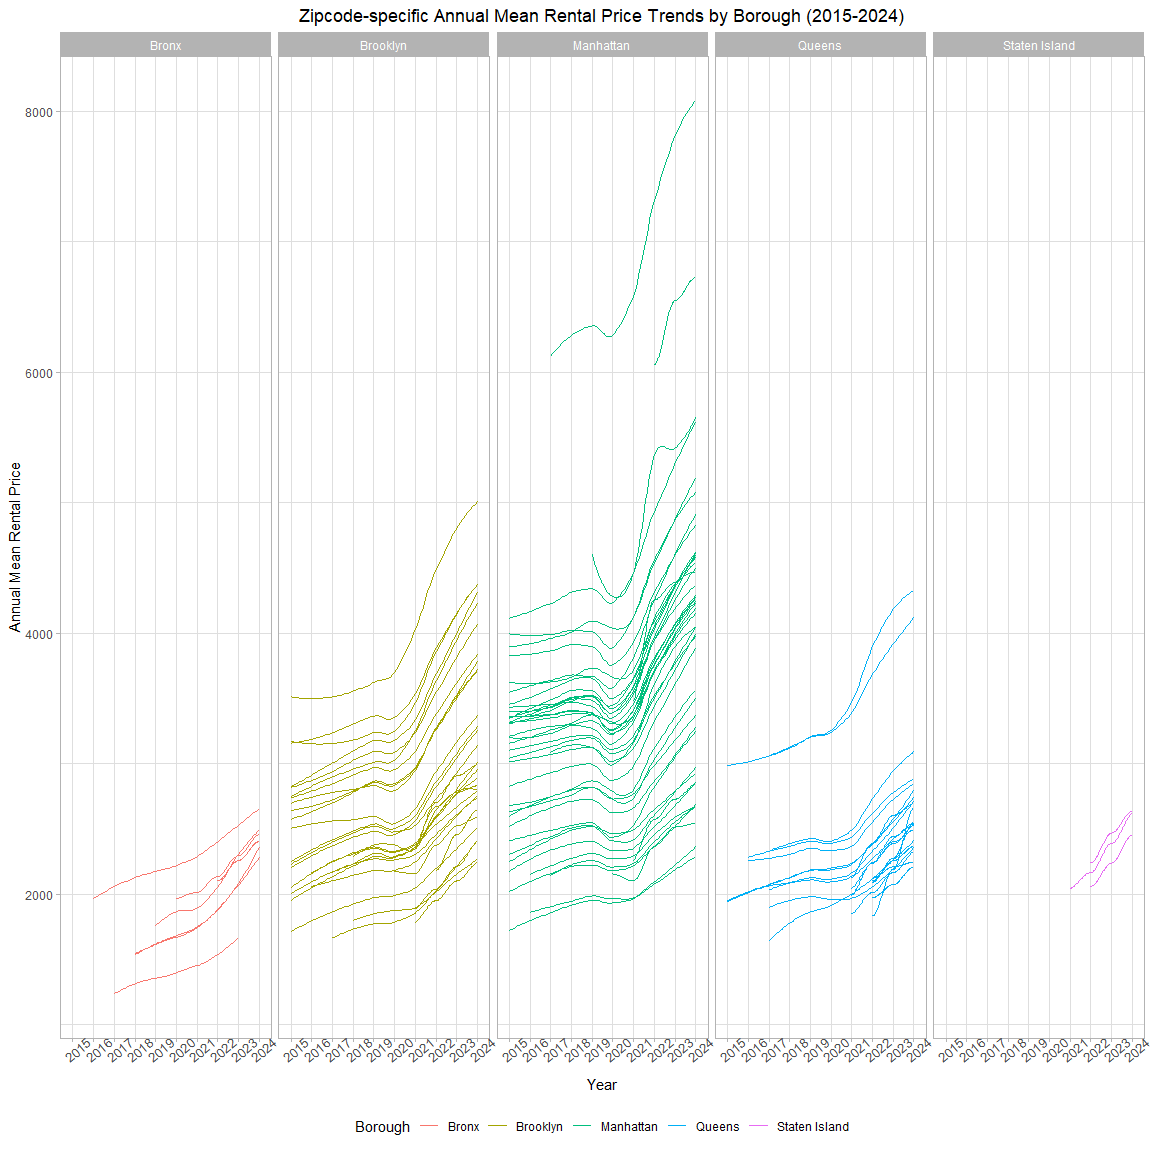
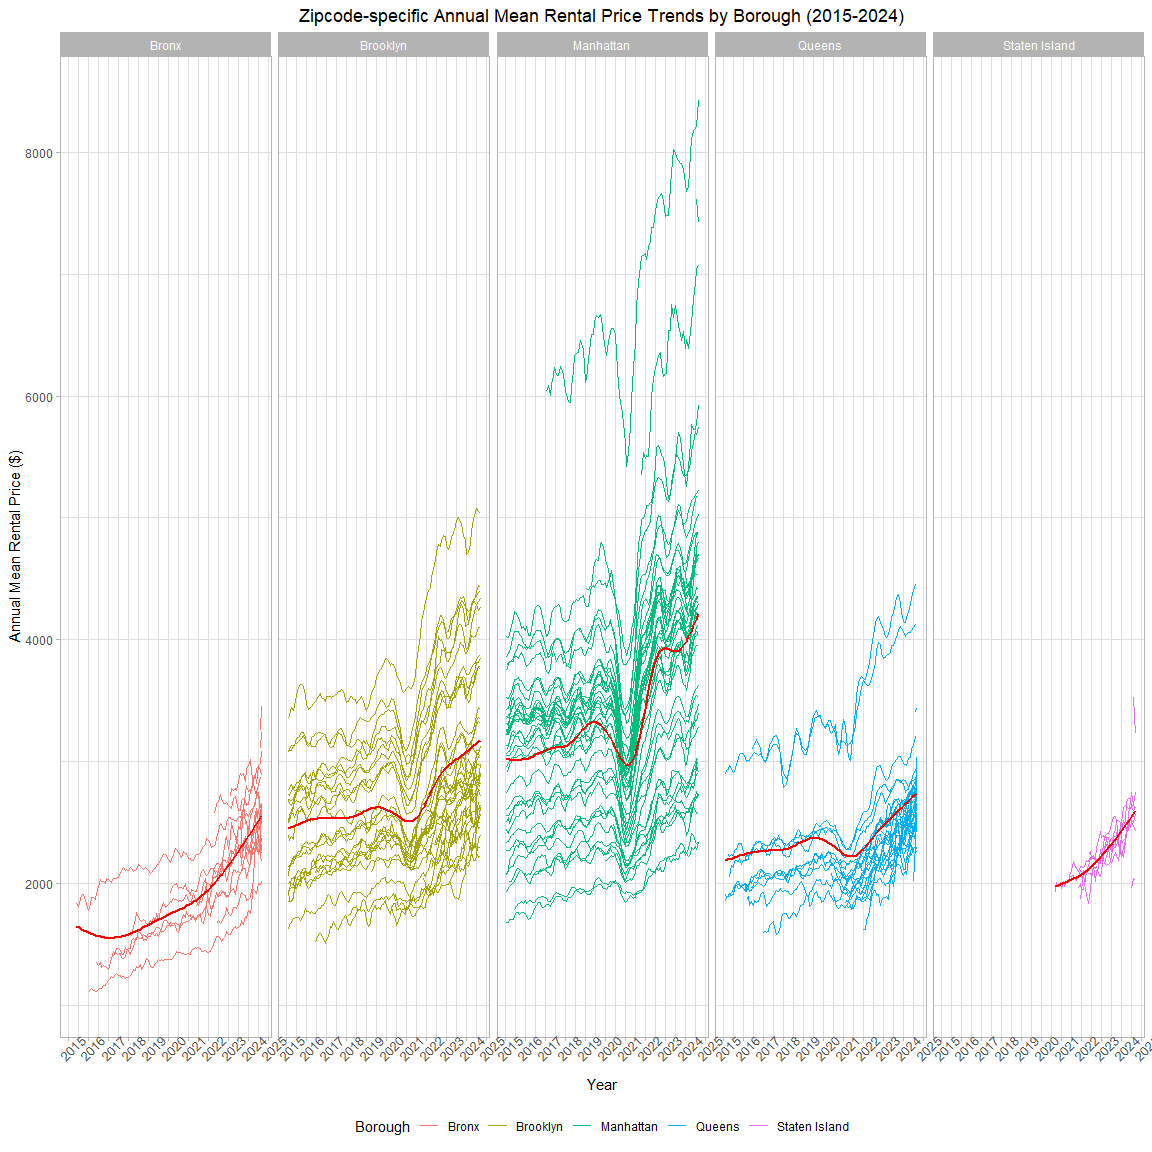
save

Changed region(s): [[0.0, 0.0625, 1.0, 0.9375]]

diff --git a/p8105_mtp_ez2384.md b/p8105_mtp_ez2384.md
@@ -29,9 +29,7 @@ Data Science I, Midterm Project
                      mutate(across(where(is.numeric), round, 2)) %>% 
                      pivot_longer(cols=starts_with("x"), names_to="date", values_to="rental_price") %>% 
                      mutate(date=gsub("x","",date)) %>% 
-                     mutate(date=gsub("_","/",date)) %>%
-                     separate(date, into=c("year", "month", "day"), sep="/") %>%
-                     select(-day)
+                     mutate(date=gsub("_","/",date))
 ```
 
     ## Warning: There was 1 warning in `mutate()`.
@@ -61,8 +59,7 @@ Data Science I, Midterm Project
                      arrange(zipcode) %>%
                      pivot_longer(cols=starts_with("x"), names_to="date", values_to="housing_price") %>% 
                      mutate(date=gsub("x","",date)) %>% 
-                     mutate(date=gsub("_","/",date)) %>% 
-                     separate(date, into=c("year", "month", "day"), sep="/")
+                     mutate(date=gsub("_","/",date))
 
 # Rectify incorrect zipcodes
   NYC_Rental_Price %>% group_by(zipcode) %>% filter(n() > 1) %>% distinct(zipcode)  # zipcodes all unique
@@ -138,8 +135,9 @@ Data Science I, Midterm Project
 ##### Tables
 
 ``` r
-# Table 1 -- average rental price in each borough and year
+# Table 1 --- average rental price in each borough and year
   Table1 = Merged %>% 
+           separate(date, into=c("year","month","day"), sep="/") %>% 
            group_by(borough, year) %>% 
            summarise(mean_rental_price=mean(rental_price, na.rm=TRUE)) %>% 
            pivot_wider(names_from=borough, values_from=mean_rental_price) %>% 
@@ -152,6 +150,7 @@ Data Science I, Midterm Project
 ``` r
 # Table 2 --- comparing average rental prices from 2020 to 2021
   Table2 = Merged %>% 
+           separate(date, into=c("year","month","day"), sep="/") %>% 
            filter( (year=="2020"|year=="2021") & month==c("1") ) %>% 
            group_by(year) %>% 
            select(zipcode, year, rental_price) %>% 
@@ -162,19 +161,21 @@ Data Science I, Midterm Project
            mutate(absolute_change = Jan.2021-Jan.2020, relative_percentage_change = (Jan.2021 - Jan.2020) / Jan.2020 * 100) %>% 
            mutate(across(where(is.numeric),round, 2))
 
-# Table 3 --- for each borough, select neighborhood with largest drop in rental price from 2020 to 2021 
+# Table 3 --- for each borough, select neighborhood with largest drop in rental price from Jan.2020 to Jan.2021 
   Table3 =  Merged %>% 
-            filter(month == "1" & year %in% c("2020", "2021")) %>%
+            separate(date, into=c("year","month","day"), sep="/") %>% 
+            filter((year %in% c("2020", "2021")) & (month=="1")) %>%
             pivot_wider(names_from = year, values_from = rental_price, names_prefix = "Jan.") %>%
             mutate(drop = Jan.2020 - Jan.2021) %>% 
             filter(!is.na(drop)) %>% 
             group_by(borough) %>%
             arrange(borough, desc(drop)) %>%
             slice(1) %>%
-            select(-month, -zipcode, -county)
+            select(borough, neighborhood, drop)
 
 # Table 4 --- average house price within each ZIP code over 2023
   Table4 = US_Housing_Price %>% 
+           separate(date, into=c("year","month","day"), sep="/") %>% 
            group_by(zipcode, year) %>% 
            summarise(mean_housing_price=mean(housing_price)) %>% 
            mutate(year=as.numeric(year), mean_housing_price=round(mean_housing_price,digits=0)) %>% 
@@ -187,41 +188,39 @@ Data Science I, Midterm Project
 ##### Plots
 
 ``` r
-# Plot1 --- NYC Rental Prices within ZIP codes for all available years facilitating comparisons across borough
+# Plot1 --- NYC Rental Prices within each zipcode for all available years facilitating comparisons across borough
   Plot1 = Merged %>% 
+          mutate(date = as.Date(date, format = "%Y/%m/%d")) %>% 
           filter(!is.na(year)) %>% 
-          select(-month) %>% 
-          group_by(year, zipcode, borough) %>% 
-          summarise(mean_rental_price = mean(rental_price, rm.na=TRUE)) %>% 
-          filter(!is.na(mean_rental_price)) %>% 
-          ggplot(aes(x=year, y=mean_rental_price, group=zipcode, color=borough, rm.na=TRUE)) +
-          geom_smooth(se=FALSE, size=0.25) + 
+          separate(date, into=c("year","month","day"), sep="-", remove=FALSE) %>% 
+          filter() %>% 
+          group_by(date, borough, zipcode) %>% 
+          filter(!is.na(rental_price)) %>% 
+          ggplot(aes(x=date, y=rental_price, group=zipcode, color=borough, rm.na=TRUE)) +
+          geom_line(se=FALSE, size=0.5) + 
+          geom_smooth(aes(group=borough),color="red", se=FALSE)+
           facet_wrap(~borough, nrow=1, ncol=5) +
+          scale_x_date(date_breaks = "1 year", date_labels = "%Y") +
           theme_light() +
-          theme(axis.text.x=element_text(angle=40, hjust=0.5, size=10), plot.title=element_text(hjust=0.5), legend.position="bottom") +
-          labs(title = "Zipcode-specific Annual Mean Rental Price Trends by Borough (2015-2024)", x = "Year", y = "Annual Mean Rental Price", color = "Borough") +
+          theme(axis.text.x=element_text(angle=45, hjust=0.5, size=10), plot.title=element_text(hjust=0.5), legend.position="bottom") +
+          labs(title = "Zipcode-specific Annual Mean Rental Price Trends by Borough (2015-2024)", x = "Year", y = "Annual Mean Rental Price ($)", color = "Borough") +
           guides(fill=guide_legend(nrow=1))
-```
-
-    ## `summarise()` has grouped output by 'year', 'zipcode'. You can override using
-    ## the `.groups` argument.
-
-``` r
   Plot1
 ```
 
-    ## `geom_smooth()` using method = 'loess' and formula = 'y ~ x'
+    ## `geom_smooth()` using method = 'gam' and formula = 'y ~ s(x, bs = "cs")'
 
 ![](p8105_mtp_ez2384_files/figure-gfm/Plots-1.png)<!-- -->
 
 ``` r
 # Plot2 --- distribution of Zipcode level house prices across states facilitating comparison of the distribution of house prices across states
   Plot2 = US_Housing_Price %>% 
+          separate(date, into=c("year","month","day"), sep="/") %>% 
           group_by(zipcode, state) %>% 
           summarise(mean_housing_price=mean(housing_price, rm.na=TRUE)) %>% 
           ggplot(aes(x=state, y=mean_housing_price/ 1e6, fill=state)) + 
           geom_boxplot() + 
-          labs(title = "Distribution of Zipcode-level House Prices Across States", x = "State", y = "House Price (Million Dollars)") +
+          labs(title = "Distribution of Zipcode-level House Prices Across States", x = "State", y = "House Price (Million $)") +
           theme_light() +     
           theme(plot.title = element_text(hjust = 0.5), legend.position = "bottom", legend.key.size = unit(0.5, "cm"), axis.text.x = element_text(angle = 45, hjust = 1)) + 
           guides(fill = guide_legend(ncol = 20))
@@ -238,13 +237,13 @@ Data Science I, Midterm Project
 
 ``` r
 # Plot3 --- Zipcode specific housing prices against Zipcode specific rental prices ( In NYC 2023 )
-  Plot3 = inner_join(x  = NYC_Rental_Price %>% filter(year==2023) %>% group_by(zipcode) %>% summarise(annual_mean_rental=mean(rental_price)), 
-                     y  = US_Housing_Price %>% filter(city=="New York") %>% group_by(zipcode) %>% summarise(annual_mean_housing=mean(housing_price)), 
-                     by = "zipcode") %>% 
-          ggplot(aes(x=annual_mean_housing, y=annual_mean_rental), rm.na=TRUE) + 
+  Plot3 = inner_join(x=NYC_Rental_Price %>% separate(date, into=c("year","month","day"), sep="/") %>% filter(year==2023) %>% group_by(zipcode) %>% summarise(annual_mean_rental=mean(rental_price)), 
+                     y=US_Housing_Price %>% separate(date, into=c("year","month","day")) %>% filter(city=="New York") %>% group_by(zipcode) %>% summarise(annual_mean_housing=mean(housing_price)), 
+                     by="zipcode") %>% 
+          ggplot(aes(x=annual_mean_housing/1e6, y=annual_mean_rental), rm.na=TRUE) + 
           geom_point() +
           geom_smooth() +
-          labs(title="Zipcode-specific Housing Prices against Zipcode-specific Rental Prices", x="Annual Mean Housing Price", y="Annual Mean Rental Price") +
+          labs(title="Zipcode-specific Housing Prices against Zipcode-specific Rental Prices", x="Annual Mean Housing Price (Million $)", y="Annual Mean Rental Price($)") +
           theme_light() + 
           theme(plot.title=element_text(hjust=0.5))
   Plot3
